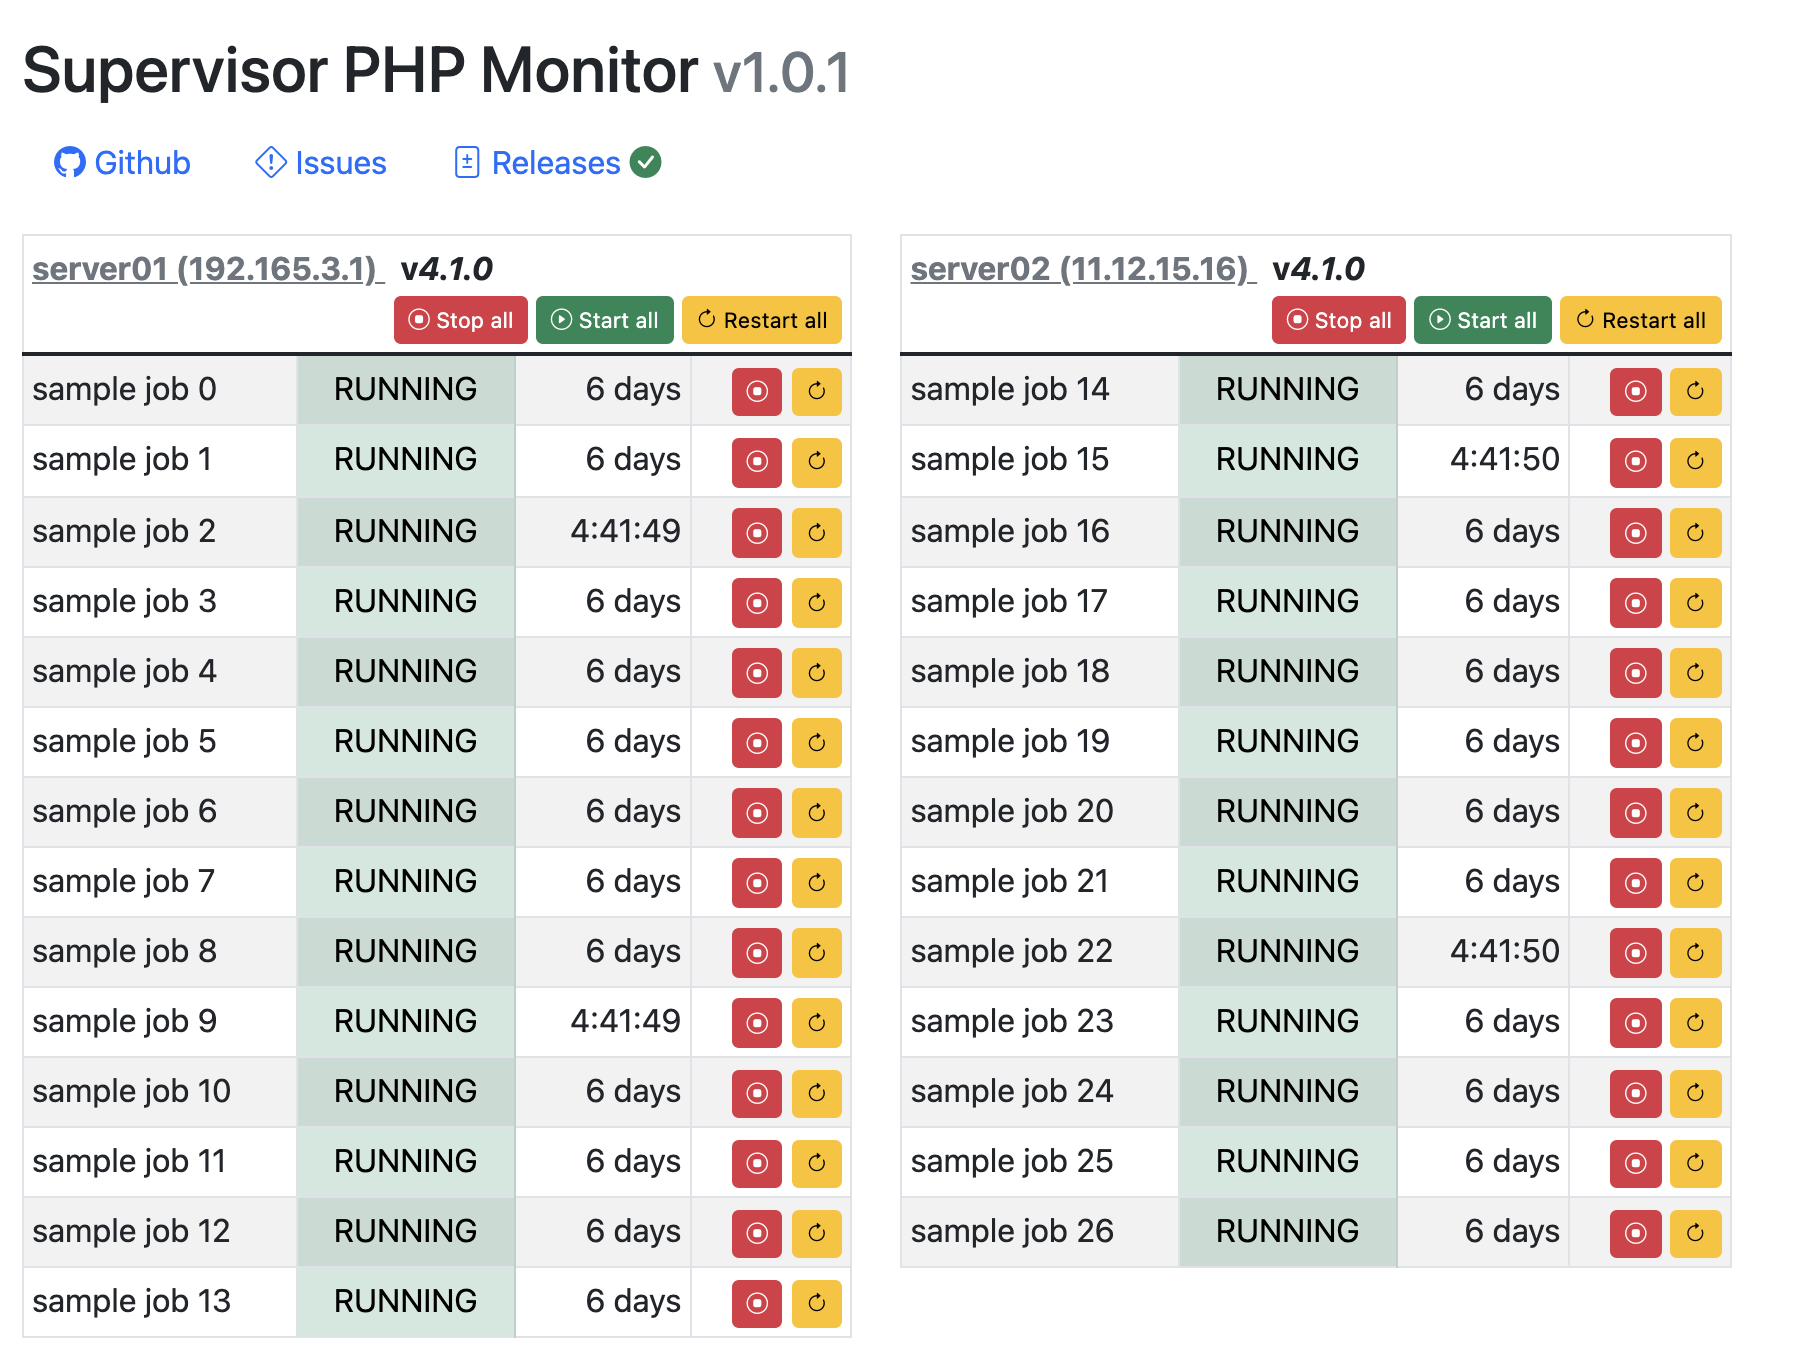
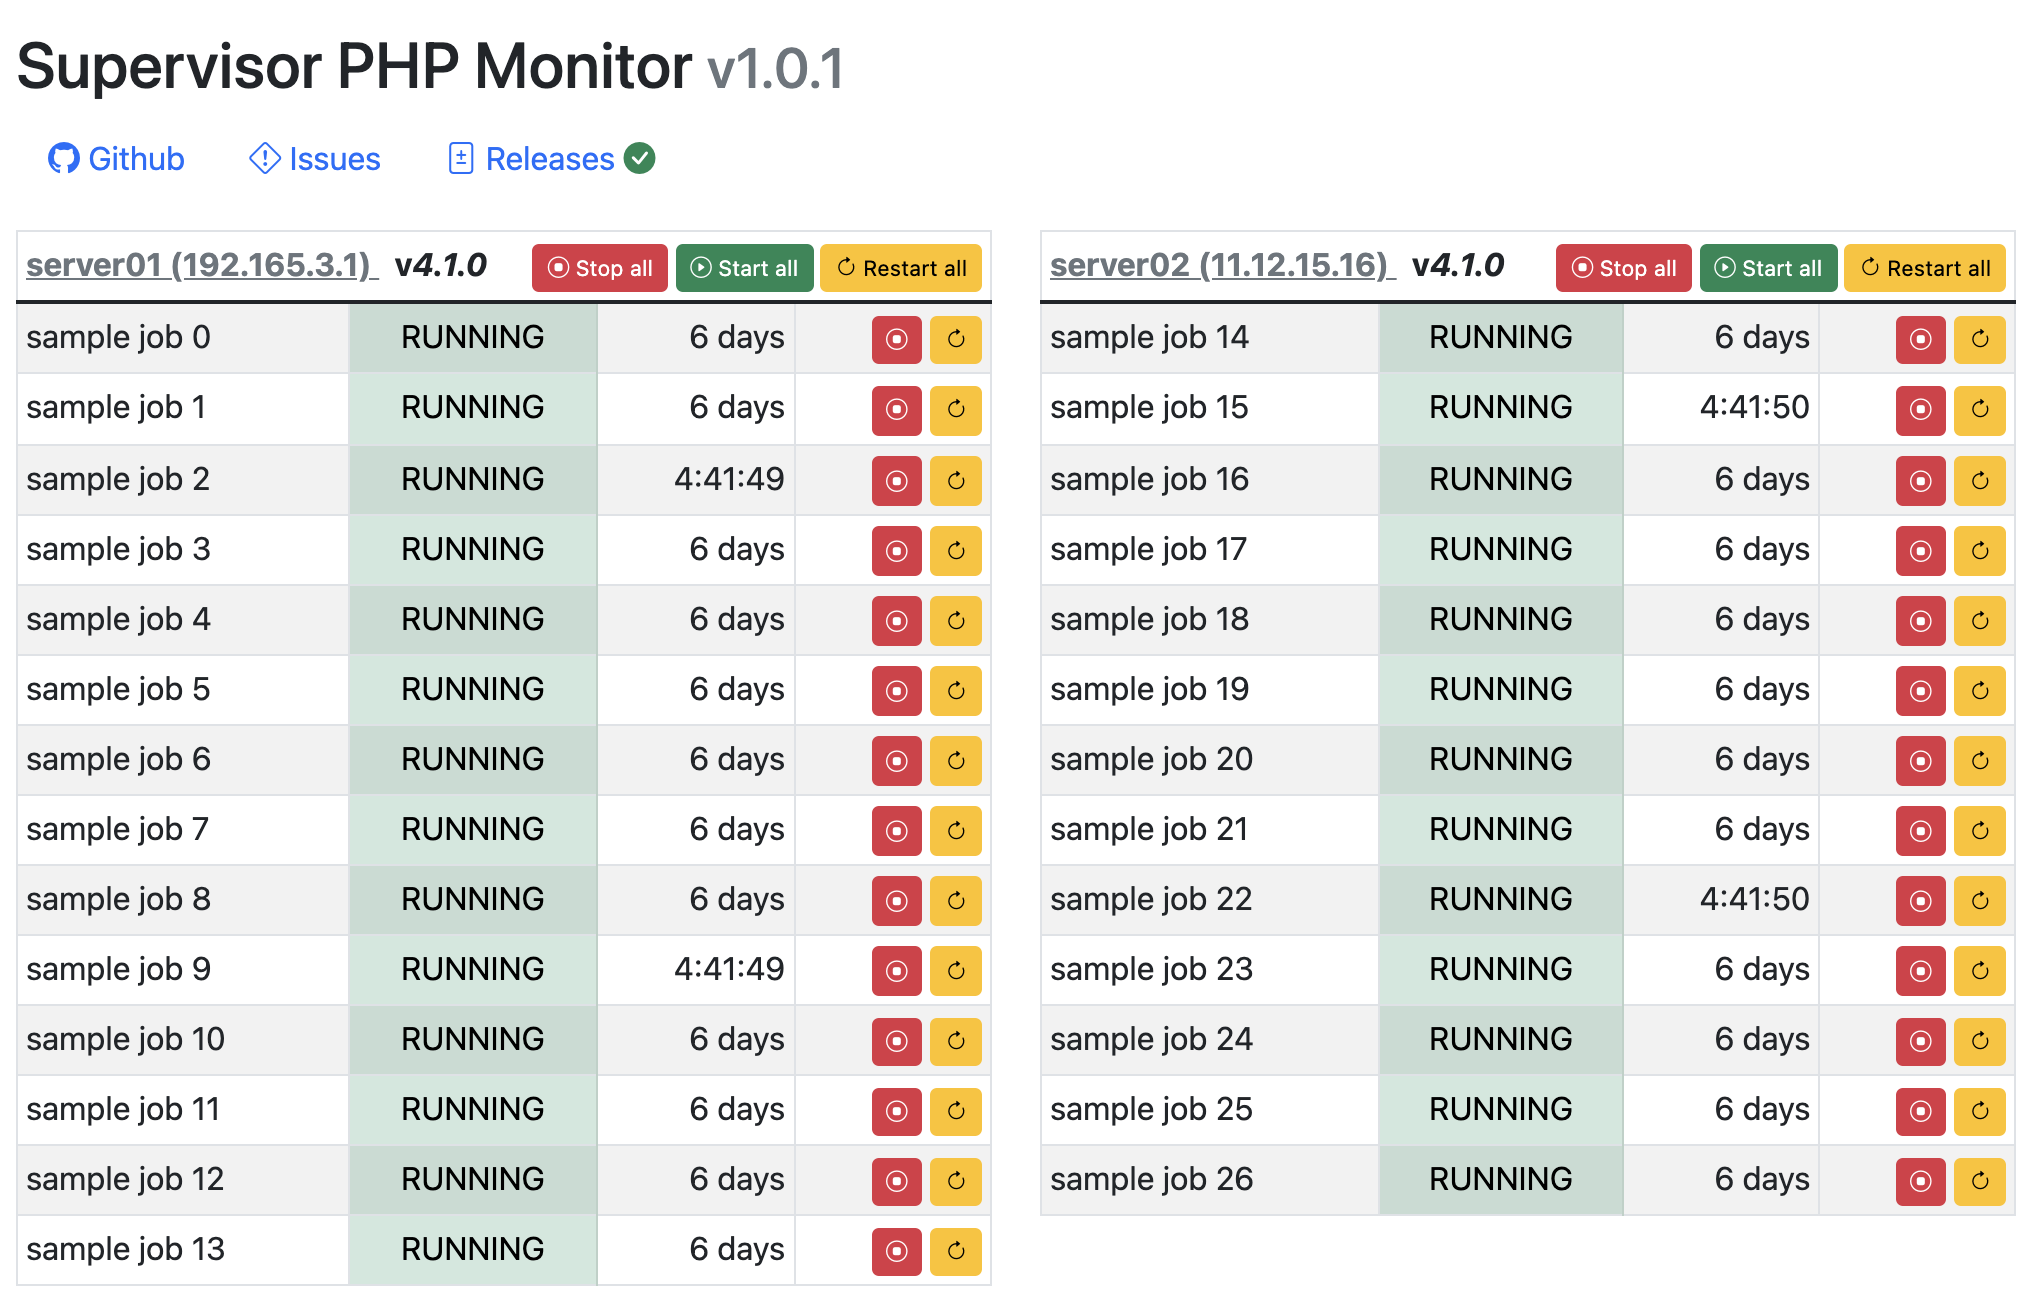
Wider screenshot, add composer to install

diff --git a/Readme.md b/Readme.md
@@ -4,7 +4,7 @@
 
 A minimum viable product for monitoring a fleet of supervisord instances across mulitple servers
 
-Heavily adapted from https://github.com/mlazarov/supervisord-monitor, we took out all the stuff we didn't want to use, removed the frameworks
+Heavily adapted from https://github.com/mlazarov/supervisord_php_monitor, we took out all the stuff we didn't want to use, removed the frameworks
 and overhauled the rest for PHP8+
 
 ## Features
@@ -15,17 +15,19 @@ and overhauled the rest for PHP8+
 
 ## Install
 
-1. Clone supervisord-monitor to your vhost/webroot:
+1. Clone supervisord_php_monitor to your vhost/webroot:
     ```
     git clone https://github.com/Innserve/supervisord_php_monitor.git
     ```
-
-2. Copy config/example.config.inc to config/config.inc
+2. Run composer to install dependencies
+    ```
+    composer install
+    ```
+3. Copy config/example.config.inc to config/config.inc
     ```
     cp config/example.config.inc config/config.inc
     ```
-
-3. Enable/Uncomment inet_http_server (found in supervisord.conf) for all your supervisord servers.
+4. Enable/Uncomment inet_http_server (found in supervisord.conf) for all your supervisord servers.
     ```ini
     [inet_http_server]
     port=*:9001
@@ -33,11 +35,9 @@ and overhauled the rest for PHP8+
     password="yourpass"
     ```
     _Do not forget to restart supervisord service after changing supervisord.conf_
-
-4. Edit supervisord-monitor configuration file and add all your supervisord servers
+5. Edit supervisord_php_monitor configuration file and add all your supervisord servers
     ```bash
     vim config/config.inc
     ```
-
-5. Configure your web server to point one of your vhosts to 'public' directory.
-6. Open web browser and enter your vhost url.
+6. Configure your web server to point one of your vhosts to 'public' directory.
+7. Open web browser and enter your vhost url.
